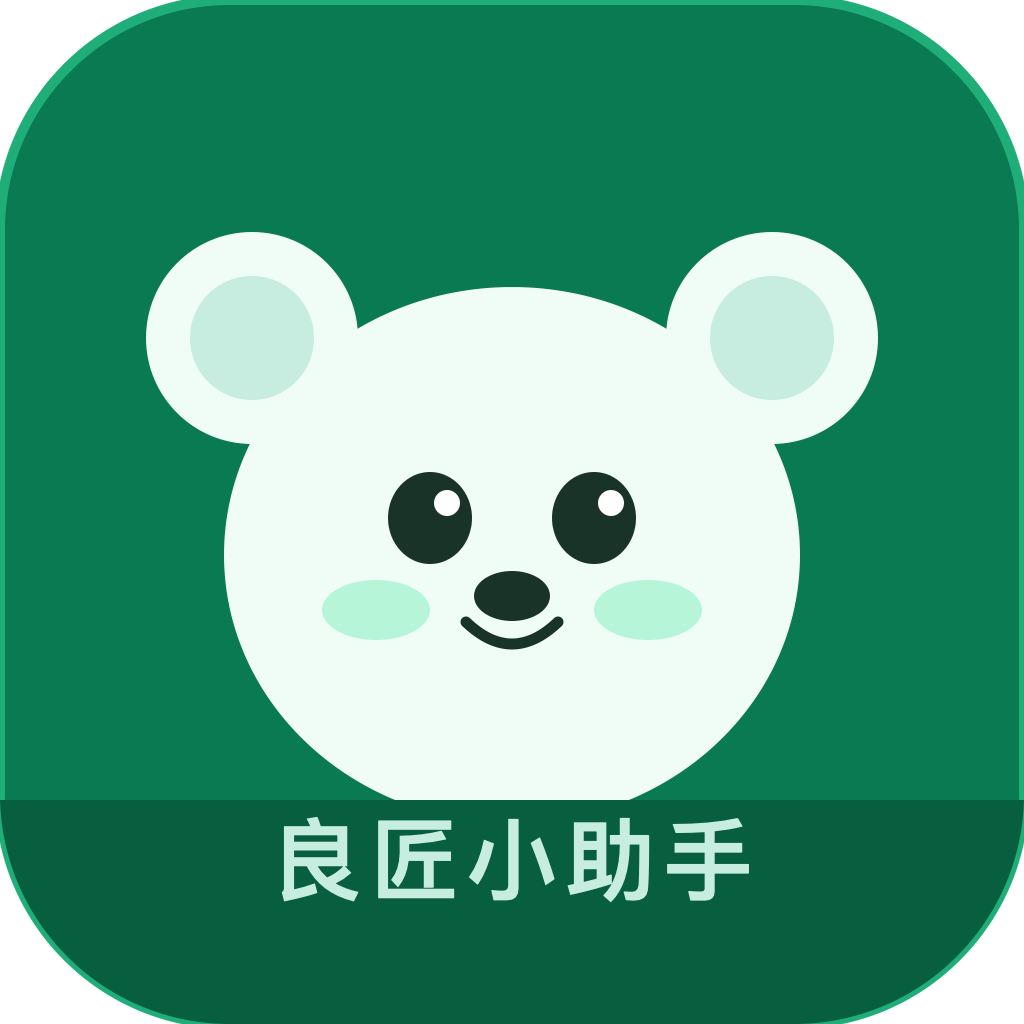
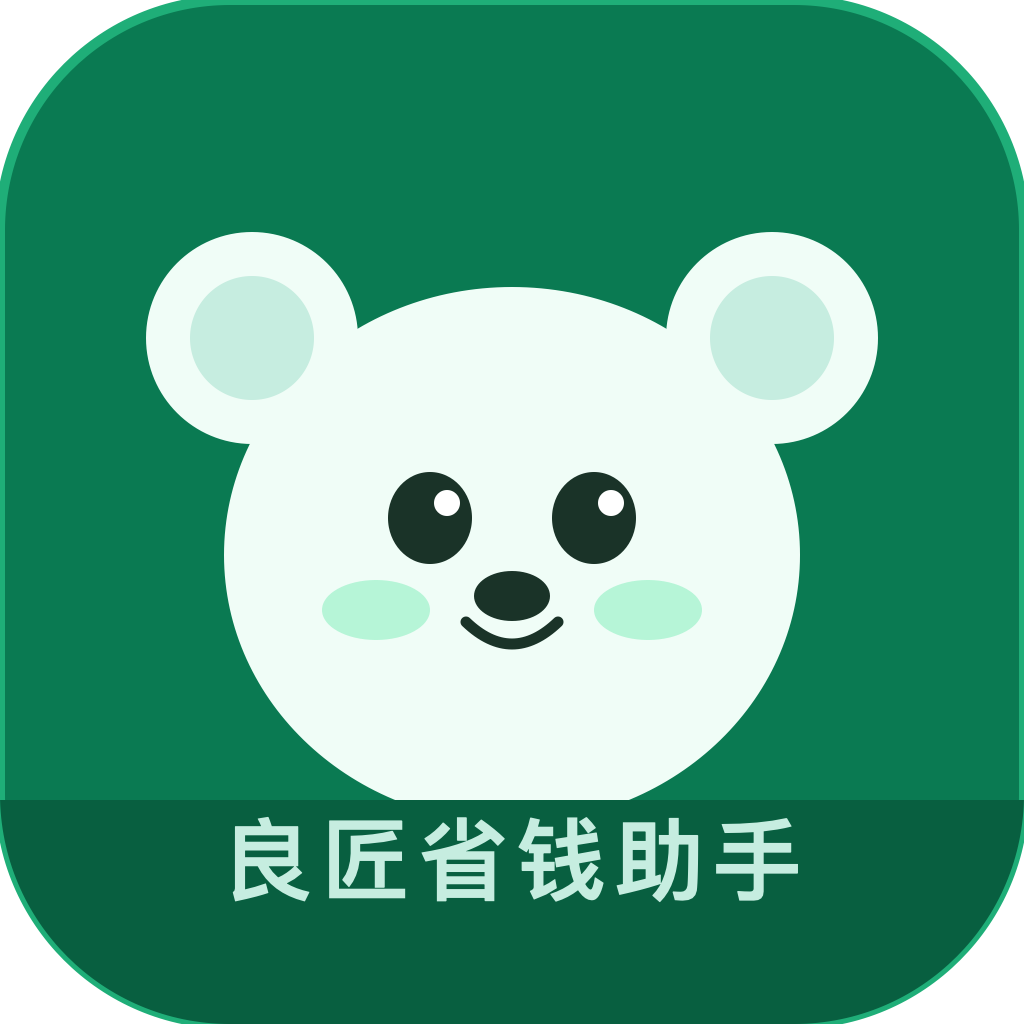
chore: 名称更新为「良匠省钱助手」

Changed region(s): [[0.2188, 0.7812, 0.7812, 0.9062]]

diff --git a/admin/src/App.tsx b/admin/src/App.tsx
@@ -212,7 +212,7 @@ export function App() {
           <div className="flex h-12 w-12 items-center justify-center rounded-xl bg-gradient-to-br from-emerald-400 to-emerald-600 text-lg font-bold text-white">
             白
           </div>
-          <h1 className="mt-5 text-xl font-semibold text-slate-900">良匠小助手 · 运营后台</h1>
+          <h1 className="mt-5 text-xl font-semibold text-slate-900">良匠省钱助手 · 运营后台</h1>
           <p className="mt-1.5 text-sm text-slate-500">输入管理员 Token 进入控制台</p>
           <input
             autoFocus
@@ -243,7 +243,7 @@ export function App() {
               白
             </div>
             <div>
-              <div className="text-sm font-semibold leading-tight">良匠小助手</div>
+              <div className="text-sm font-semibold leading-tight">良匠省钱助手</div>
               <div className="text-xs text-slate-400">运营后台</div>
             </div>
           </div>
